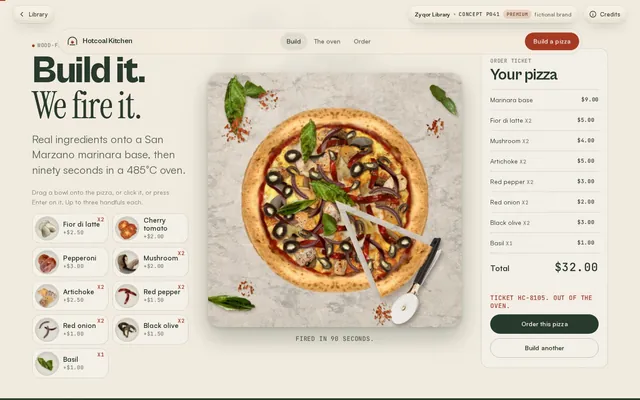
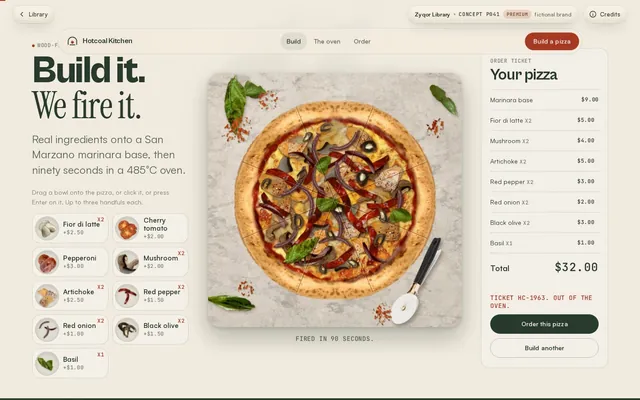
P041 v3.1: cut into eight instead of a pulled wedge; fewer, spaced olives (Sujon 2:31 PM)

Changed region(s): [[0.3438, 0.24, 0.6875, 0.75], [0.8125, 0.72, 0.8438, 0.75]]

diff --git a/site/library/p/P041/app.js b/site/library/p/P041/app.js
@@ -37,7 +37,7 @@ const ING = {
   artichoke:  { name: 'Artichoke',     price: 2.5, n: 6, size: 1.2, raw: list('arti-raw', 7), baked: list('arti-baked', 7), grow: [1, 0.95], shadow: [0.55, 0.42], gap: 0.22 },
   pepper:     { name: 'Red pepper', price: 1.5, n: 7, size: 1.12, raw: list('pepper-raw', 5), baked: list('pepper-baked', 5), grow: [1, 0.92], shadow: [0.5, 0.4], gap: 0.2 },
   onion:      { name: 'Red onion',     price: 1.0, n: 8, size: 1.12, raw: list('onion-raw', 4), baked: list('onion-baked', 4), grow: [1, 0.9], shadow: [0.45, 0.35], gap: 0.19 },
-  olive:      { name: 'Black olive',   price: 1.5, n: 13, size: 1.3, raw: list('olive-raw', 3), baked: list('olive-baked', 3), grow: [1, 0.97], shadow: [0.55, 0.45], gap: 0.13 },
+  olive:      { name: 'Black olive',   price: 1.5, n: 7, size: 1.15, raw: list('olive-raw', 3), baked: list('olive-baked', 3), grow: [1, 0.97], shadow: [0.55, 0.45], gap: 0.2 },
   /* basil goes on fresh after the oven, the way a pizzaiolo finishes it: the baked state keeps the bright leaves */
   basil:      { name: 'Basil',         price: 1.0, n: 4, raw: list('basil-raw', 4), baked: list('basil-raw', 4), grow: [1, 1], shadow: [0.5, 0.45], gap: 0.22 }
 };
@@ -173,20 +173,21 @@ function drawShadow(q, f, k, grow, shA) {
   }
 }
 
-/* ---------- the serve: one slice pulled out of the pie after the oven, the marble showing through the cut ---------- */
-const offA = document.createElement('canvas'), offB = document.createElement('canvas');
+/* ---------- the serve: cut into eight after the oven ---------- */
 function sliceOut(p) {
-  const e = easeOut(p), c = W / 2, R = W * 0.5, a0 = Math.PI / 8, a1 = a0 + Math.PI / 4, mid = (a0 + a1) / 2, s = 1 - 0.07 * e, d = W * 0.07 * e;
-  for (const o of [offA, offB]) if (o.width !== W) { o.width = W; o.height = W; }
-  const A = offA.getContext('2d'), B = offB.getContext('2d');
-  A.setTransform(1, 0, 0, 1, 0, 0); A.clearRect(0, 0, W, W); A.drawImage(cv, 0, 0);
-  B.setTransform(1, 0, 0, 1, 0, 0); B.clearRect(0, 0, W, W);
-  B.save(); B.beginPath(); B.moveTo(c, c); B.arc(c, c, R, a0, a1); B.closePath(); B.clip(); B.drawImage(offA, 0, 0); B.restore();
-  ctx.setTransform(1, 0, 0, 1, 0, 0); ctx.clearRect(0, 0, W, W);
-  ctx.save(); ctx.translate(c, c); ctx.scale(s, s); ctx.translate(-c, -c);
-  ctx.beginPath(); ctx.moveTo(c, c); ctx.arc(c, c, R, a1, a0 + Math.PI * 2); ctx.closePath(); ctx.clip(); ctx.drawImage(offA, 0, 0); ctx.restore();
-  ctx.save(); ctx.shadowColor = 'rgba(70,48,30,0.38)'; ctx.shadowBlur = 16 * DPR * e; ctx.shadowOffsetX = 5 * DPR * e; ctx.shadowOffsetY = 8 * DPR * e;
-  ctx.translate(c + Math.cos(mid) * d, c + Math.sin(mid) * d); ctx.scale(s, s); ctx.translate(-c, -c); ctx.drawImage(offB, 0, 0); ctx.restore();
+  /* v3.1: the pizza is cut into eight like a pizzeria does it: four faint knife lines through the cheese, a darker
+     groove with a light lip beside it (a pulled-out wedge read as a graphic, Sujon 2:31 PM) */
+  const e = easeOut(p), c = W / 2, R = W * 0.462;
+  ctx.save(); ctx.beginPath(); ctx.arc(c, c, W * 0.47, 0, Math.PI * 2); ctx.clip(); ctx.lineCap = 'round';
+  for (let i = 0; i < 4; i++) {
+    const a = Math.PI / 8 + i * Math.PI / 4, dx = Math.cos(a) * R * e, dy = Math.sin(a) * R * e;
+    ctx.globalCompositeOperation = 'multiply'; ctx.strokeStyle = 'rgba(122,74,38,0.55)'; ctx.lineWidth = Math.max(1.2, W * 0.0032);
+    ctx.beginPath(); ctx.moveTo(c - dx, c - dy); ctx.lineTo(c + dx, c + dy); ctx.stroke();
+    ctx.globalCompositeOperation = 'screen'; ctx.strokeStyle = 'rgba(255,236,200,0.28)'; ctx.lineWidth = Math.max(0.8, W * 0.0018);
+    const ox = -Math.sin(a) * W * 0.0035, oy = Math.cos(a) * W * 0.0035;
+    ctx.beginPath(); ctx.moveTo(c - dx + ox, c - dy + oy); ctx.lineTo(c + dx + ox, c + dy + oy); ctx.stroke();
+  }
+  ctx.restore(); ctx.globalCompositeOperation = 'source-over';
 }
 
 /* ---------- steam after the bake: soft puffs made by scaling a tiny disc up (no gradients) ---------- */

diff --git a/skills/interactive-product-configurator/SKILL.md b/skills/interactive-product-configurator/SKILL.md
@@ -324,4 +324,5 @@ What moved the pizza from "photo collage" to "same vibe as the reference" (twope
 - Golden, not charred: in Lab, darken by local lightness (more browning in the crevices), +9..19 a*, +14..32 b*.
 - Toppings from real photos of the same toppings on real pizzas (USDA "Supreme pizza", CC0 Daderot artichoke pizza, CC0 raw veggie pizza), cut with GrabCut on a tight box, holes filled, 2-3 px feather. Pepper strips: curved polygon masks on a roasted pepper's skin. Onion slivers: an arc band of the outer two rings of a real slice, tapered at both ends.
 - Density sells it: the reference has toppings over about 60 % of the sauce. Handful sizes of 6-13 pieces and two handfuls each got there.
-- Finish after the oven, like a food stylist: fresh basil on top (the basil does not wilt), chili-flake pinches, a slicer and one slice pulled out along the 45 degree bisector (rest of the pie and the wedge both scaled to 0.93 so the wedge stays inside the canvas).
+- Finish after the oven, like a food stylist: fresh basil on top (the basil does not wilt), chili-flake pinches, a slicer, and the pie cut into eight (a multiplied brown groove plus a screen-blended light lip per cut). A pulled-out wedge drawn in 2D read as a graphic and the client rejected it; cut lines read as real.
+- Fewer, spaced pieces of a small sprite set: 13 olives from 3 sprites looked cloned; 7 with a wider gap did not.
